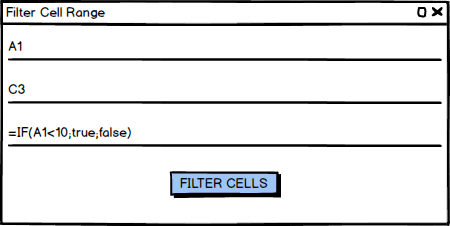
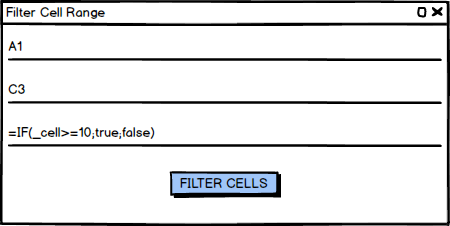
[Core03.2][refs issue #8] Edited mockup in documentation (no. 3)

Changed region(s): [[0.0622, 0.5575, 0.3422, 0.6195]]

diff --git a/docs/blue/s1171715/sp2/README.md b/docs/blue/s1171715/sp2/README.md
@@ -37,7 +37,7 @@ WorkbookView
 FilterCellRangeView
 Spreadsheet
 
-The user can click on the button, which indicates a popup window to show up, where a new View is created. On the sheet, the user can select the range of cells in the table (which are stored in a matrix with the start and end cell, as it was explained in chapter 3), and after given a formula, the chosen row will stay visible or may change to invisible, depending on the boolean formula. 
+The user can click on the button, which indicates a popup window to show up, where a new View is created. On the sheet, the user can select the range of cells in the table (which are stored in a matrix with the start and end cell), and after given a formula, the chosen row will stay visible or may change to invisible, depending on the boolean formula. 
 
 System sequence diagram:
 
@@ -46,7 +46,9 @@ System sequence diagram:
 In addition, because of the lack of time, I only managed to solve the following:
 
 It is possible for the user to select a range of cells, e.g: B2:C4 in a table which has columns from A-F, and cells from 1-6.
-In this case, in B2, B will be the indicator column, and the range of rows "2-4" will be subjected to either being set to invisible (if the formula evaluates to "false") or staz visible otherwise
+
+In this case, in B2, B will be the indicator column, and the range of rows "2-4" will be subjected to either being set to invisible (if the formula evaluates to "false") or stay visible otherwise.
+
 This means, that all the values in column B (up to the row range limit, in this case row 4) will be checked according to the previously given formula, and according to that, the row (C4) is going to stay visible, or change to invisible.
 		
 Of course, if I would have more time, I would try to solve the task like how it would be expected from the side of the user/customer.
@@ -67,8 +69,6 @@ I made mockups to show how this task should work properly, in the best case.
 ![5_Hidden](5_Hidden.png)
 
 
-
-
 # 4. Design
 
 ## 4.1 Tests
@@ -79,7 +79,7 @@ Tests were created, however, GWT does not allow us to instantiate core classes l
 In terms of tests, I have to make sure that the correct cell address is found for a given input:
 
 
-        /**
+    /**
      * Test of findAddress method, of class SpreadsheetImpl.
      */
     @Test
@@ -90,7 +90,7 @@ In terms of tests, I have to make sure that the correct cell address is found fo
             {"10", "9", "8", "7", "a", "b", "c"}, {"8", "=1+7", "6", "5", "4", "3", "2"},
             {"1", "2", "3", "4", "5", "6", "7"}};
 
-        String reference = “A1”;
+        String reference = "10";
         SpreadsheetImpl instance = new SpreadsheetImpl(new Workbook(), "teste",contents);
         Address expResult = new Address(0,0);
         Address result = instance.findAddress(reference);
@@ -107,16 +107,11 @@ In terms of tests, I have to make sure that the correct cell address is found fo
             {"10", "9", "8", "7", "a", "b", "c"}, {"8", "=1+7", "6", "5", "4", "3", "2"},
             {"1", "2", "3", "4", "5", "6", "7"}};
 
-        SpreadsheetImpl sheet = new SpreadsheetImpl(new Workbook(), "test",contents);
-
-	String reference = “D1”;
-	Address address = sheet.findAddress(reference);
-
-
-        int expResult = 3;
-
-        int result = address.getColumn();
-
+        
+        int index = 0;
+        SpreadsheetImpl instance = new SpreadsheetImpl(new Workbook(), "teste",contents);
+        Cell[] expResult = new Cell[index];
+        Cell[] result = instance.getColumn(index);
         assertArrayEquals(expResult, result);
     }
 
